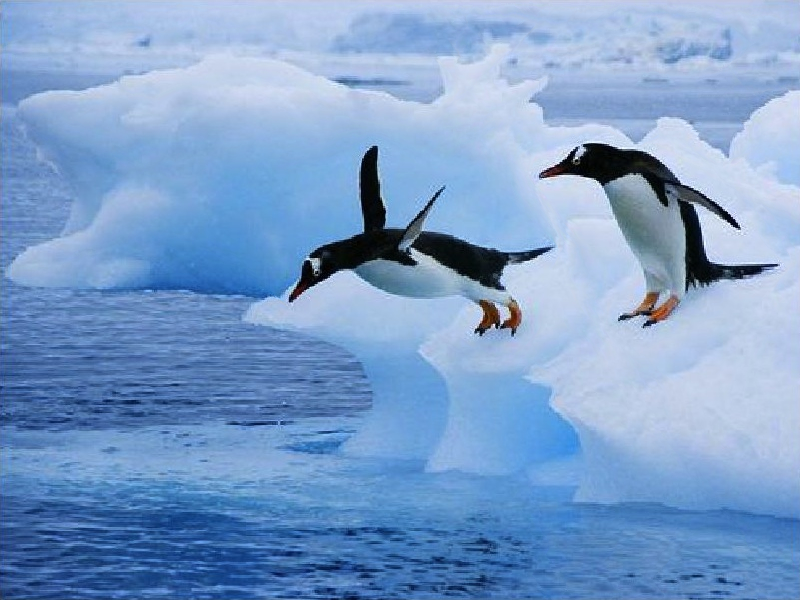
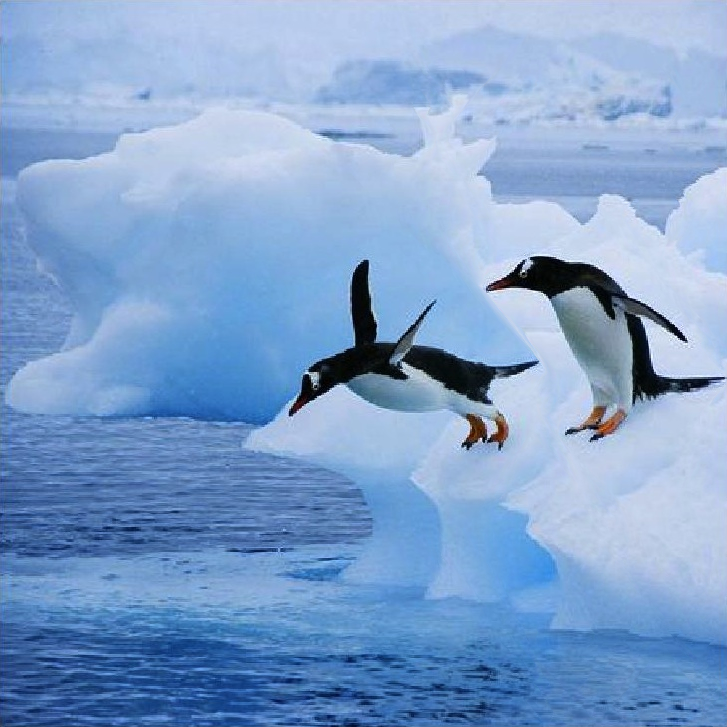
optimize vertical cut

diff --git a/main.py b/main.py
@@ -1,5 +1,6 @@
 import cv2
 import numpy as np
+import time
 
 class SeamCarver:
     def __init__(self, picture):
@@ -39,14 +40,13 @@ class SeamCarver:
         """
         en_mat = self.energy_matrix()
         # dp[i][j] = minimum energy of seam ending at (i, j)
-        dp = [[0 for _ in range(self.width())] for _ in range(self.height())]
+        dp = np.zeros((self.height(), self.width()), dtype=np.float32)
 
         # make a matrix to contain the path. path[i][j] = r) means that the seam ending at (i, j) came from row r, column c-1
-        path = [[(0, 0) for _ in range(self.width())] for _ in range(self.height())]
+        path = np.zeros((self.height(), self.width(), 2), dtype=np.int32)
 
         # initialize the first column
-        for i in range(self.height()):
-            dp[i][0] = en_mat[i][0]
+        dp[:, 0] = en_mat[:, 0]
 
         # fill the dp table
         for c in range(1, self.width()):
@@ -71,7 +71,7 @@ class SeamCarver:
         seam = []
         
         # check last column
-        min_index = [dp[i][self.width() - 1] for i in range(self.height())].index(min_cost)
+        min_index = np.argmin(dp[:, self.width() - 1])
 
         seam.append(min_index)
         for c in range(self.width() - 1, 0, -1):
@@ -81,50 +81,43 @@ class SeamCarver:
         return seam
 
     def find_vertical_seam(self):
-        """
-        Sequence of indices for the vertical seam.
-        :return: A list of row indices.
-        """
         en_mat = self.energy_matrix()
-        # dp[i][j] = minimum energy of seam ending at (i, j)
-        dp = [[0 for _ in range(self.width())] for _ in range(self.height())]
+        dp = np.zeros((self.height(), self.width()), dtype=np.float32)
+        path = np.zeros((self.height(), self.width()), dtype=np.int32)  # Only store column indices
 
-        # make a matrix to contain the path. path[i][j] = c) means that the seam ending at (i, j) came from row r-1, column c
-        path = [[(0, 0) for _ in range(self.width())] for _ in range(self.height())]
+        dp[0, :] = en_mat[0, :]
 
-        # initialize the top row
-        for i in range(self.width()):
-            dp[0][i] = en_mat[0][i]
-        
-        # fill the dp table
+        # Fill the dp table
         for r in range(1, self.height()):
-            for c in range(self.width()):
-                left = c - 1 if c > 0 else c
-                right = c + 1 if c < self.width() - 1 else c
+            left = np.roll(dp[r - 1], 1)
+            center = dp[r - 1]
+            right = np.roll(dp[r - 1], -1)
 
-                prevcost = min(dp[r - 1][left], dp[r - 1][c], dp[r - 1][right])
-                dp[r][c] = en_mat[r][c] + prevcost
+            left[0] = float('inf')
+            right[-1] = float('inf')
 
-                if (prevcost == dp[r - 1][left]):
-                    path[r][c] = left
-                elif (prevcost == dp[r - 1][c]):
-                    path[r][c] = c
-                else:
-                    path[r][c] = right
-        
-        # find the minimum cost in the last row
-        min_cost = min(dp[self.height() - 1])
+            prevcost = np.minimum(np.minimum(left, center), right)
+            dp[r] = en_mat[r] + prevcost
 
-        # backtrack to find the seam
-        seam = []
-        min_index = dp[self.height() - 1].index(min_cost)
-        seam.append(min_index)
+            path[r] = np.where(prevcost == left, np.arange(self.width()) - 1,
+                    np.where(prevcost == center, np.arange(self.width()),
+                            np.arange(self.width()) + 1))
+
+        # Find the minimum cost in the last row
+        min_index = np.argmin(dp[self.height() - 1])
+        seam = [min_index]
+
+        # Backtrack
         for r in range(self.height() - 1, 0, -1):
-            min_index = path[r][min_index]
+            min_index = path[r, min_index]
             seam.append(min_index)
+
         seam.reverse()
         return seam
-                
+
+
+
+                        
     def draw_vertical_seam(self, seam):
         """
         Draw the vertical seam on the current picture.
@@ -150,6 +143,7 @@ class SeamCarver:
         for i in range(self.height()):
             new_picture[i] = np.delete(self.picture[i], seam[i], axis=0)
         self.picture = new_picture
+
     def remove_horizontal_seam(self, seam):
         """
         Remove the horizontal seam from the current picture.
@@ -169,9 +163,11 @@ class SeamCarver:
         """
         horizontal_cuts_remaining = self.height() - new_height
         vertical_cuts_remaining = self.width() - new_width
+        print("time: ", time.time())
 
         while vertical_cuts_remaining >0:
             seam = self.find_vertical_seam()
+            print("time: ", time.time())
             vertical_cuts_remaining -= 1
             print("Vertical cuts remaining: ", vertical_cuts_remaining)
             self.remove_vertical_seam(seam)
@@ -180,6 +176,7 @@ class SeamCarver:
             seam = self.find_horizontal_seam()
             horizontal_cuts_remaining -= 1
             self.remove_horizontal_seam(seam)
+            print("time: ", time.time())
             print("Horizontal cuts remaining: ", horizontal_cuts_remaining)
 
     
@@ -190,7 +187,6 @@ class SeamCarver:
     def get_blue(self, x, y):
         return self.picture[y][x][0]
     def energy_matrix(self):
-        #return [[self.energy(x, y) for x in range(self.width())] for y in range(self.height())]
         return self.energy()
         
 '''
@@ -218,20 +214,9 @@ if __name__ == "__main__":
     print("Height: ", height)
 
     # resize to width=400, height=250
-    sc.resize(800, 600)
+    sc.resize(727, 727)
     arr = sc.energy_matrix()
     # print the energy matrix formatted
-    
-    '''
-    for row in arr:
-        print(row)
 
-    # print the original rgb values of the image
-    for i in range(height):
-        for j in range(width):
-            print(f"({sc.get_red(j, i)}, {sc.get_green(j, i)}, {sc.get_blue(j, i)})", end=" ")
-        print()
-    # Save the new image to local filesys.
-    '''
     new_file_path = "new_sample.png"
     cv2.imwrite(new_file_path, sc.picture)
